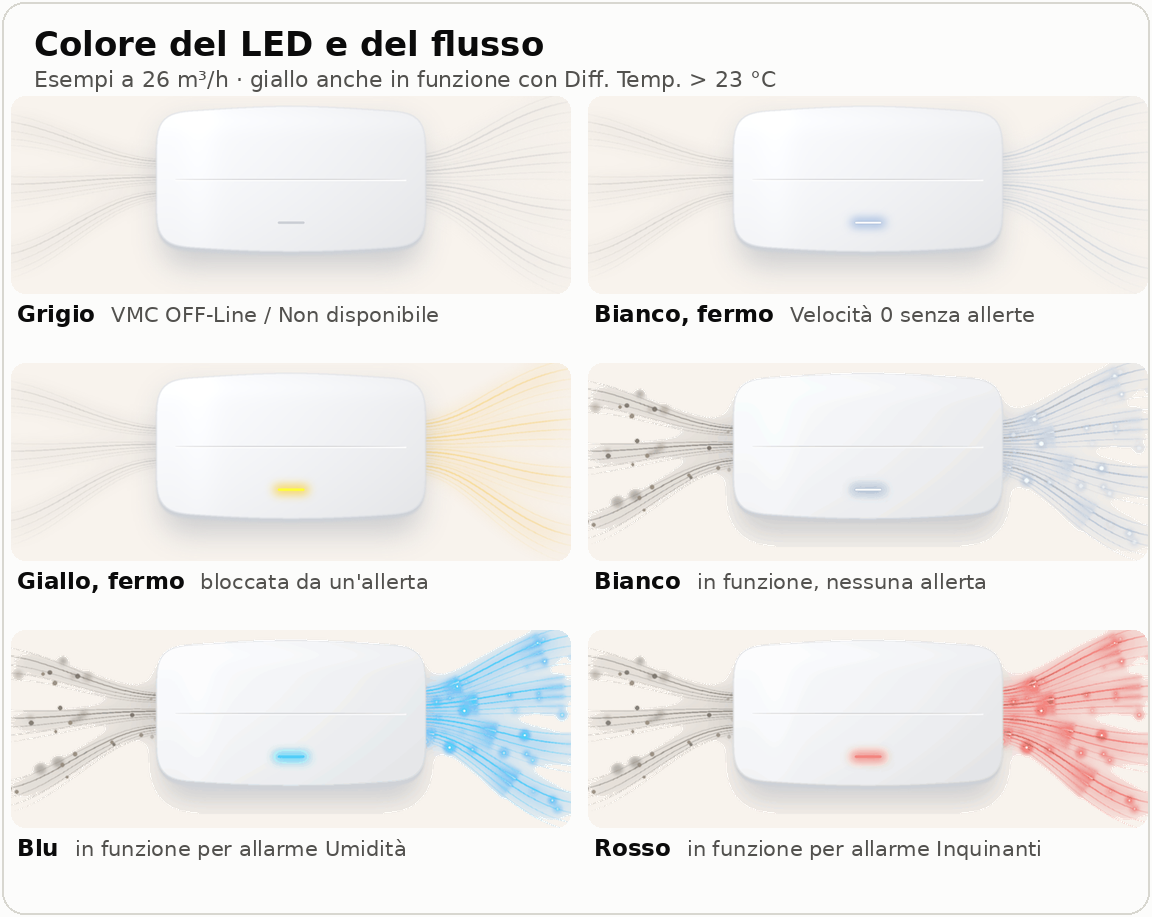
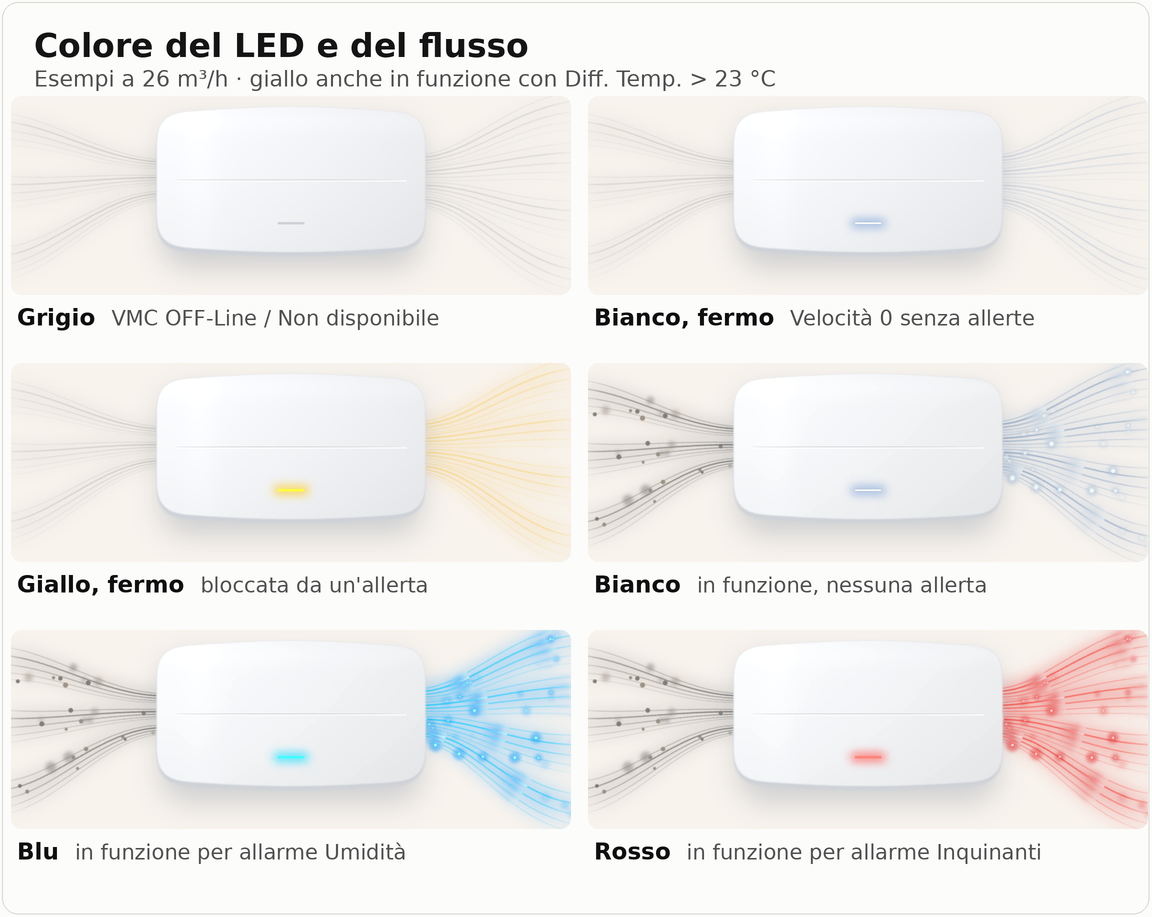
Intestazione: immagini con sfondo trasparente vero, senza macchie né bordi seghettati
- 20 animate + 3 ferme + icona: stesso disegno, colori, fotogrammi e tempi di prima;
  trasparenza a 8 bit (prima: GIF a 1 bit cucita sul colore della scheda, con macchie
  color crema attorno ai flussi, bordi seghettati e bande di colore)
- 1520x540 native (prima: 760x270 ingrandite 2x), disegnate a risoluzione doppia
- teste delle scie luminose sfumate (prima: fronte netto che sembrava un riquadro)
- ombra sotto la VMC scura: identica sul colore della scheda, nessun alone chiaro sul tema scuro
- icona senza i monconi delle linee ai bordi
- peso totale 112 MB invece di 210 MB
- Informazioni/23_intestazione.png rifatta con le nuove immagini; README delle immagini aggiornato

Claude-Session: https://claude.ai/code/session_01QCKbqJ5122gufFbrDVJRP6

diff --git a/immagini/Intestazione/README.md b/immagini/Intestazione/README.md
@@ -2,7 +2,7 @@
 
 Immagini mostrate in cima alla scheda **VMC HELTY FLOW** (voce 22 del pannello informazioni).
 
-Formato: **WebP** (animato per le velocità, fermo per Velocità 0, OFF-Line e icona), 1520 × 540 pixel.
+Formato: **WebP** con sfondo trasparente (animato per le velocità, fermo per Velocità 0, OFF-Line e icona), 1520 × 540 pixel; icona 480 × 266 pixel.
 
 ## Significato del nome
 
